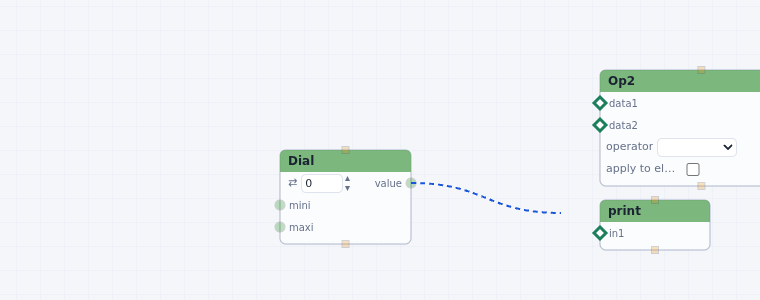
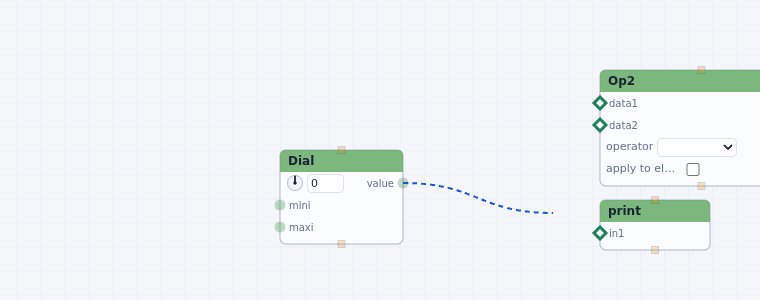
Deploying to gh-pages from @ sannerlab/sannerlab.github.io@a36799eef241010e3bbe7473de8f18bdd3cfff5b 🚀

diff --git a/news/index.html b/news/index.html
@@ -301,7 +301,7 @@ window.Quarto = {
 
 <div class="quarto-listing quarto-listing-container-default" id="listing-listing">
 <div class="list quarto-listing-default">
-<div class="quarto-post image-left" data-index="0" data-listing-date-sort="1794441600000" data-listing-file-modified-sort="1795120460660" data-listing-date-modified-sort="NaN" data-listing-reading-time-sort="1" data-listing-word-count-sort="100">
+<div class="quarto-post image-left" data-index="0" data-listing-date-sort="1794441600000" data-listing-file-modified-sort="1795125231912" data-listing-date-modified-sort="NaN" data-listing-reading-time-sort="1" data-listing-word-count-sort="100">
 <div class="thumbnail"><a href="../news/posts/2026-11-12-msms-2-6-2-macos-windows.html" class="no-external">
 
 <img loading="lazy" src="../images/tools/msms.jpg" class="thumbnail-image">
@@ -323,7 +323,7 @@ Nov 12, 2026
 </a>
 </div>
 </div>
-<div class="quarto-post image-left" data-index="1" data-listing-date-sort="1794268800000" data-listing-file-modified-sort="1795120460660" data-listing-date-modified-sort="NaN" data-listing-reading-time-sort="1" data-listing-word-count-sort="92">
+<div class="quarto-post image-left" data-index="1" data-listing-date-sort="1794268800000" data-listing-file-modified-sort="1795125231912" data-listing-date-modified-sort="NaN" data-listing-reading-time-sort="1" data-listing-word-count-sort="92">
 <div class="thumbnail"><a href="../news/posts/2026-11-10-msms-turns-30.html" class="no-external">
 
 <img loading="lazy" src="../news/posts/media/msms-30-teaser.gif" class="thumbnail-image">
@@ -345,7 +345,7 @@ Nov 10, 2026
 </a>
 </div>
 </div>
-<div class="quarto-post image-left" data-index="2" data-listing-date-sort="1793923200000" data-listing-file-modified-sort="1795120460660" data-listing-date-modified-sort="NaN" data-listing-reading-time-sort="1" data-listing-word-count-sort="182">
+<div class="quarto-post image-left" data-index="2" data-listing-date-sort="1793923200000" data-listing-file-modified-sort="1795125231912" data-listing-date-modified-sort="NaN" data-listing-reading-time-sort="1" data-listing-word-count-sort="182">
 <div class="thumbnail"><a href="../news/posts/2026-11-06-msms-2-6-2.html" class="no-external">
 
 <img loading="lazy" src="../images/tools/msms.jpg" class="thumbnail-image">
@@ -367,7 +367,7 @@ Nov 6, 2026
 </a>
 </div>
 </div>
-<div class="quarto-post image-left" data-index="3" data-listing-date-sort="1791936000000" data-listing-file-modified-sort="1795120460660" data-listing-date-modified-sort="NaN" data-listing-reading-time-sort="1" data-listing-word-count-sort="65">
+<div class="quarto-post image-left" data-index="3" data-listing-date-sort="1791936000000" data-listing-file-modified-sort="1795125231912" data-listing-date-modified-sort="NaN" data-listing-reading-time-sort="1" data-listing-word-count-sort="65">
 <div class="thumbnail"><a href="../news/posts/2026-10-14-new-website.html" class="no-external">
 
 <img loading="lazy" src="../images/social-card.jpg" class="thumbnail-image">

diff --git a/index.html b/index.html
@@ -300,13 +300,13 @@ window.Quarto = {
 <h3 class="anchored" data-anchor-id="latest-news"><a href="./news/index.html">Latest news</a></h3>
 <div id="listing-news-listing" class="quarto-listing quarto-listing-container-custom">
 <ul class="news-latest">
-<li data-index="0" data-listing-date-sort="1794441600000" data-listing-file-modified-sort="1795120460660" data-listing-date-modified-sort="NaN" data-listing-reading-time-sort="1" data-listing-word-count-sort="100">
+<li data-index="0" data-listing-date-sort="1794441600000" data-listing-file-modified-sort="1795125231912" data-listing-date-modified-sort="NaN" data-listing-reading-time-sort="1" data-listing-word-count-sort="100">
 <span class="news-date">Nov 12, 2026</span> <span class="news-body"><a class="news-title" href="./news/posts/2026-11-12-msms-2-6-2-macos-windows.html">MSMS 2.6.2 for macOS and Windows</a> <span class="news-desc">MSMS 2.6.2, our robustness release, is now available for macOS (one binary for Apple silicon and Intel Macs) and 64-bit Windows, as well as Linux.</span></span>
 </li>
-<li data-index="1" data-listing-date-sort="1794268800000" data-listing-file-modified-sort="1795120460660" data-listing-date-modified-sort="NaN" data-listing-reading-time-sort="1" data-listing-word-count-sort="92">
+<li data-index="1" data-listing-date-sort="1794268800000" data-listing-file-modified-sort="1795125231912" data-listing-date-modified-sort="NaN" data-listing-reading-time-sort="1" data-listing-word-count-sort="92">
 <span class="news-date">Nov 10, 2026</span> <span class="news-body"><a class="news-title" href="./news/posts/2026-11-10-msms-turns-30.html">MSMS turns 30</a> <span class="news-desc">Thirty years after its 1996 publication, MSMS, our program for computing molecular surfaces, is still in use, including in geometric deep-learning research.</span></span>
 </li>
-<li data-index="2" data-listing-date-sort="1793923200000" data-listing-file-modified-sort="1795120460660" data-listing-date-modified-sort="NaN" data-listing-reading-time-sort="1" data-listing-word-count-sort="182">
+<li data-index="2" data-listing-date-sort="1793923200000" data-listing-file-modified-sort="1795125231912" data-listing-date-modified-sort="NaN" data-listing-reading-time-sort="1" data-listing-word-count-sort="182">
 <span class="news-date">Nov 6, 2026</span> <span class="news-body"><a class="news-title" href="./news/posts/2026-11-06-msms-2-6-2.html">MSMS 2.6.2 released</a> <span class="news-desc">A robustness release: MSMS no longer crashes on very large or unusual inputs, merges duplicate atoms instead of stopping, and computes all surface components in parallel.</span></span>
 </li>
 </ul>

diff --git a/wewos/tut-first.html b/wewos/tut-first.html
@@ -63,7 +63,7 @@ port show its type.</li>
 that can take a float light up.</li>
 <li>Press <b>Run</b>. The Dial sends its value, print prints it: open the <b>Log</b> under the
 network to read <code>0.0</code>.</li>
-<li>Turn the dial: scroll over the number, drag its &#8644; handle, or type a value. With <b>run on
+<li>Turn the dial: drag around it, scroll over it or over the number, or type a value. With <b>run on
 change</b> checked, each change runs the network again, and print prints the new value.</li>
 </ol>
 <figure>
